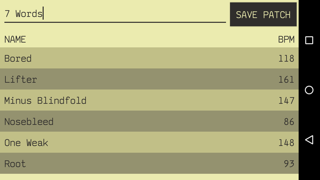
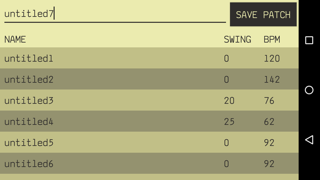
add swing column

diff --git a/app/src/main/java/net/simno/dmach/ui/adapter/PatchAdapter.java b/app/src/main/java/net/simno/dmach/ui/adapter/PatchAdapter.java
@@ -18,7 +18,6 @@
 package net.simno.dmach.ui.adapter;
 
 import android.app.Activity;
-import android.support.v7.widget.AppCompatTextView;
 import android.support.v7.widget.RecyclerView;
 import android.view.LayoutInflater;
 import android.view.View;
@@ -26,6 +25,7 @@ import android.view.ViewGroup;
 
 import net.simno.dmach.R;
 import net.simno.dmach.model.Patch;
+import net.simno.dmach.ui.view.CustomFontTextView;
 
 import java.util.ArrayList;
 import java.util.List;
@@ -55,8 +55,9 @@ public class PatchAdapter extends RecyclerView.Adapter<PatchAdapter.ViewHolder> 
             void onLongClick(int position);
         }
 
-        @FindView(R.id.title_text) AppCompatTextView title;
-        @FindView(R.id.tempo_text) AppCompatTextView tempo;
+        @FindView(R.id.title_text) CustomFontTextView title;
+        @FindView(R.id.swing_text) CustomFontTextView swing;
+        @FindView(R.id.tempo_text) CustomFontTextView tempo;
         private final OnClickListener listener;
 
         public ViewHolder(View view, OnClickListener listener) {
@@ -113,6 +114,7 @@ public class PatchAdapter extends RecyclerView.Adapter<PatchAdapter.ViewHolder> 
     public void onBindViewHolder(ViewHolder holder, int position) {
         Patch patch = dataset.get(position);
         holder.title.setText(patch.getTitle());
+        holder.swing.setText(String.valueOf(patch.getSwing()));
         holder.tempo.setText(String.valueOf(patch.getTempo()));
     }
 
